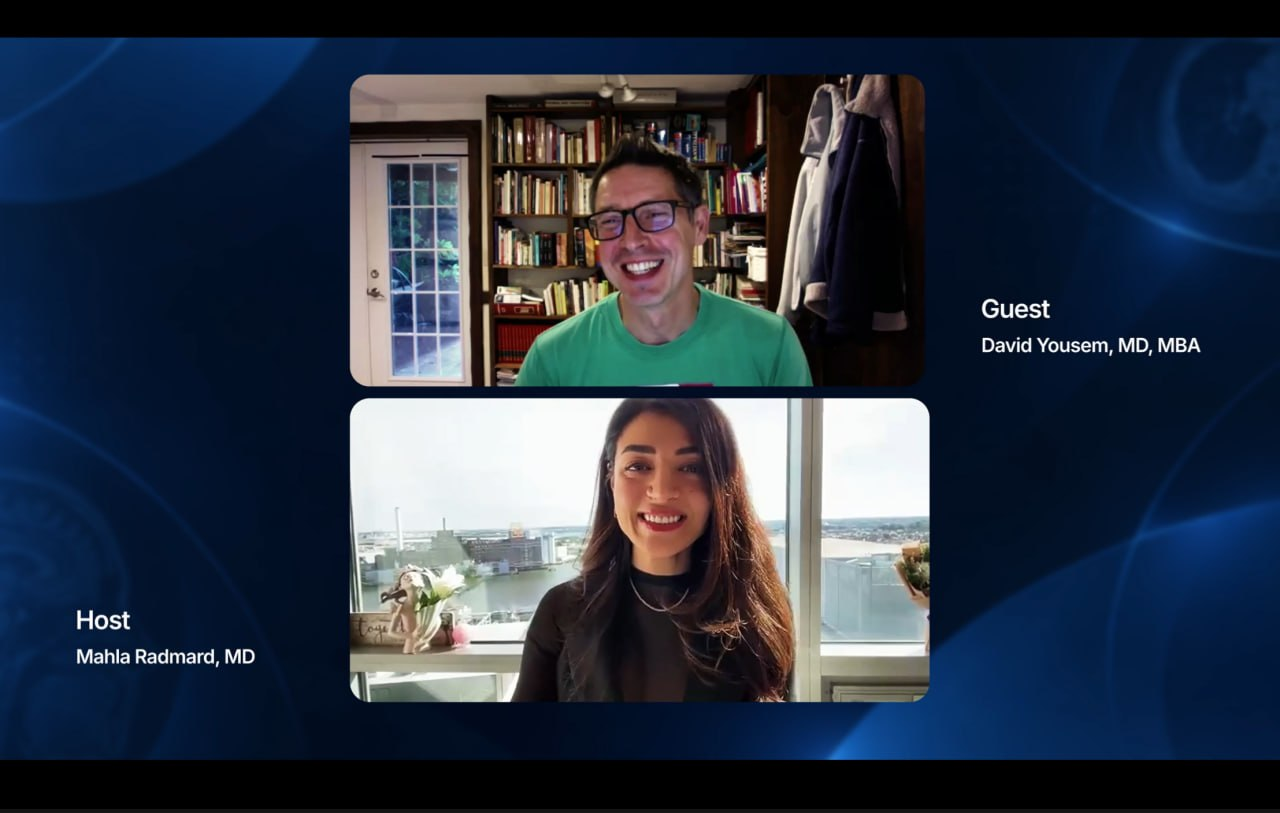
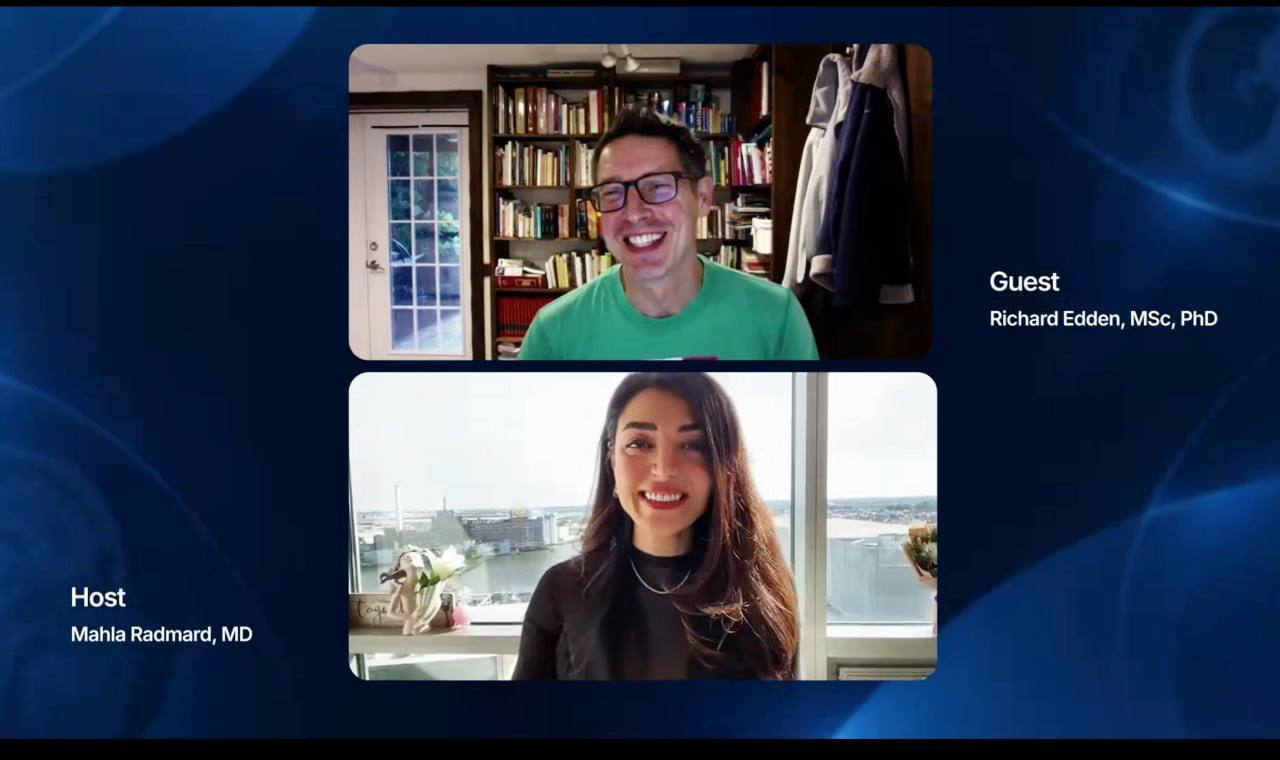
update episode 2 cover

diff --git a/episodes.js b/episodes.js
@@ -19,7 +19,7 @@ const EPISODES = [{
   date: "2026-09",
   duration: "20:34",
   video: "videos/Mahla.Mentorship.Minute.epi02.mp4",
-  poster: "posters/Episode.02.jpg",
+  poster: "posters/EPISODE.02.jpg",
   takeaways: [
     "Start with a clear and important question",
     "Make the specific aims focused and easy to follow",
